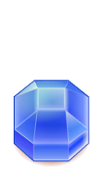
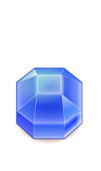
Adjust overall rendering to move entities lower on the page.  Adjust gem image sizes further.

diff --git a/js/app.js b/js/app.js
@@ -29,7 +29,7 @@ GameObject.prototype.render = function() {
 var Enemy = function(startside, startrow, speed, index, wait) {
     if (startside == "left") {var x = -101; var direction="right";}
     else if (startside == "right") {var x = 606; var direction="left";}
-    var y = (startrow-2)*81;
+    var y = (startrow-1)*81;
     GameObject.call(this, x, y, 'images/enemy-bug-'+direction+'.png');
     this.row = startrow;
     this.direction = direction;
@@ -247,7 +247,7 @@ game.replaceEnemy = function(index) {
 //grab for points.
 var Gem = function(xcor, ycor, type, spawnTime, index) {
     var x = (xcor-1)*101;
-    var y = (ycor-2)*83;
+    var y = (ycor-1)*83;
     GameObject.call(this, x, y, 'images/empty.png');
     this.xcor = xcor;
     this.ycor = ycor;
@@ -357,7 +357,7 @@ Player.prototype.getXPos = function() {
 }
 
 Player.prototype.getYPos = function() {
-    this.y = (this.ycor-2)*83 + this.ydisplace;
+    this.y = (this.ycor-1)*81 + this.ydisplace;
 }
 
 //This function updates the displacement of the player's sprite

diff --git a/js/engine.js b/js/engine.js
@@ -135,7 +135,7 @@ var Engine = function(global) {
                  * so that we get the benefits of caching these images, since
                  * we're using them over and over.
                  */
-                ctx.drawImage(Resources.get(rowImages[row]), col * 101, row * 83 - 50);
+                ctx.drawImage(Resources.get(rowImages[row]), col * 101, row * 81 + 25);
             }
         }
 
